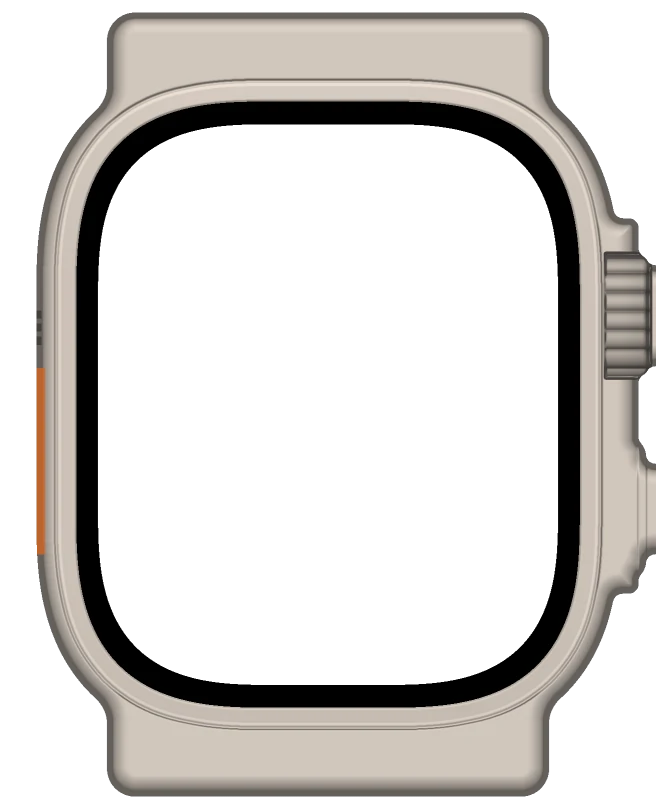
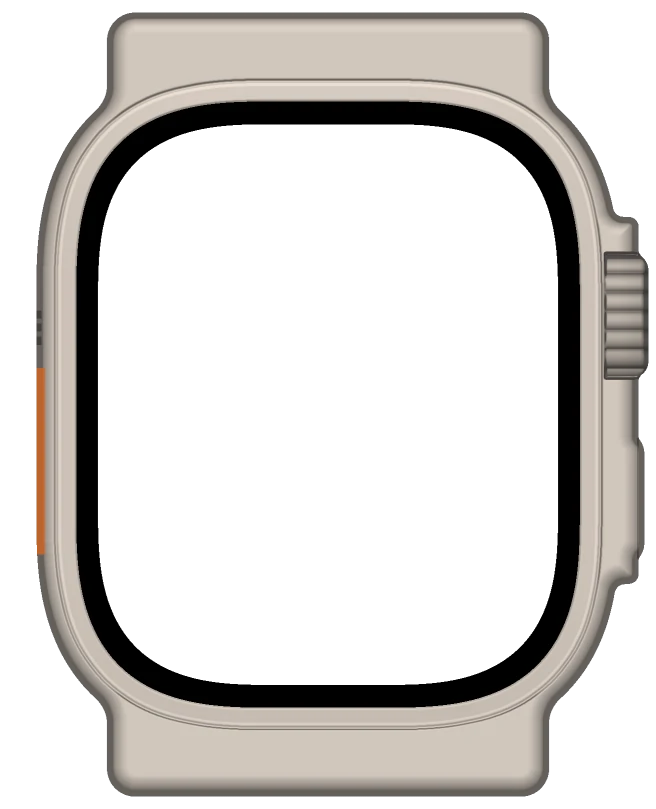
Second Chair: the Watch's crown side re-measured; no black gap beside the crown
The side button now stands 0.41 mm proud of the guard (it had been held out
to the frame's edge), the guard and button extents match Apple's photo, and
the shadow silhouette no longer fills the gap between crown and button.

Changed region(s): [[0.9146, 0.5562, 1.0, 0.7417], [0.9756, 0.309, 1.0, 0.4635], [0.9451, 0.2472, 0.9756, 0.2781]]

diff --git a/second-chair/_docs/devices/watch.py b/second-chair/_docs/devices/watch.py
@@ -7,8 +7,8 @@ Geometry in millimetres.
     sapphire (black) 36.0 x 43.3; corner extent 14.2, n 2.87; rim 2.84 all round
     rim cross-section from the outer edge: roll-off 0-0.27, brushed flank to 1.2, groove 1.35, polished ridge 1.62,
       flat brushed lip 1.75-2.7, dark seam 2.7-2.84
-    crown y 13.7-22.6 (from case top) protruding 2.2; guard y 11.2-38.0 protruding 1.35; side button y 26.7-37.2
-      protruding 1.9; Action button sliver y 21.9-35.2 on the left
+    crown y 13.7-22.6 (from case top) protruding 2.05; guard y 11.1-37.3 protruding 1.35; side button y 26.4-36.0
+      protruding 1.76 (re-measured 16 Nov from the Alpine Loop photo); Action button sliver y 21.9-35.2 on the left
   derived: display corner (circular-equivalent) radius 9.15 from 32.88 x 40.05 mm and 1245 mm2
 Surfaces are height profiles; shading reflects a fitted studio environment off titanium.
 """
@@ -19,7 +19,9 @@ P = dict(
     body_w=41.7, body_h=49.0, body_a=16.4, body_n=2.58,
     glass_w=36.0, glass_h=43.3, glass_a=14.2, glass_n=2.87,
     disp_w=422/326*25.4, disp_h=514/326*25.4,
-    guard=(11.2, 38.0, 1.35), crown=(13.7, 22.6, 2.2), button=(26.7, 37.2, 1.9), action=(21.9, 35.2),
+    # crown side, re-measured from Apple's Alpine Loop photo (29 px/mm on the crown's 8.9 mm): guard 11.1-37.3,
+    # crown 0.69 mm proud of the guard, side button 26.4-36.0 and only 0.41 mm proud of it
+    guard=(11.1, 37.3, 1.35), crown=(13.7, 22.6, 2.05), button=(26.4, 36.0, 1.76), action=(21.9, 35.2),
     # band lugs (horns), measured from Apple's front-on Alpine Loop photo at ~17.2 px/mm (body 41.7 mm = 718 px):
     # 31.6 mm across, rising 3.5 mm above the body's top and below its bottom, corners r 2.0, flowing into the
     # body's shoulders through a ~2.4 mm concave fillet. The band (27 mm) runs between them into a slot 0.75 mm
@@ -72,7 +74,8 @@ def render(scale=7.388, ss=3, margin=6.0, screen=None, e=None, out=None, shadow=
     case = body | guard | crown | button
     # concave fillets where the guard meets the body: close the outline with a 0.5 mm disc
     k = max(3, int(1.4*S)) | 1          # concave fillets where the guard swells out of the case side
-    case = cv2.morphologyEx(case.astype(np.uint8), cv2.MORPH_CLOSE, cv2.getStructuringElement(cv2.MORPH_ELLIPSE, (k, k))).astype(bool)
+    padded = cv2.copyMakeBorder(case.astype(np.uint8), k, k, k, k, cv2.BORDER_CONSTANT, value=0)   # so the frame's edge doesn't hold the crown and button out to it
+    case = cv2.morphologyEx(padded, cv2.MORPH_CLOSE, cv2.getStructuringElement(cv2.MORPH_ELLIPSE, (k, k)))[k:-k, k:-k].astype(bool)
     d_out = cv2.distanceTransform(case.astype(np.uint8), cv2.DIST_L2, 5) * px          # in from the outline
     g = cv2.distanceTransform((~glass).astype(np.uint8), cv2.DIST_L2, 5) * px          # out from the sapphire
     # ---- rim cross-section (heights in mm, relative) ----
@@ -123,6 +126,9 @@ def render(scale=7.388, ss=3, margin=6.0, screen=None, e=None, out=None, shadow=
         return dil & ~m & case
     metal = np.where(ring(cr, 0.30)[...,None], metal*0.38, metal)
     metal = np.where(ring(bt, 0.10)[...,None], metal*0.70, metal)
+    # the seam where the side button meets the guard: seen front-on, a fine dark line down its inner edge
+    seam = button & (X > right + P['guard'][2] - 0.10) & (X < right + P['guard'][2] + 0.04) & (yt > P['button'][0] + 0.5) & (yt < P['button'][1] - 0.5)
+    metal = np.where(seam[...,None], metal*0.5, metal)
     # Action button: anodised orange, visible only as the sliver on the outer left edge
     act = case & (X < -P['body_w']/2 + 0.6) & (yt > P['action'][0]) & (yt < P['action'][1])
     orange = np.array([0.80, 0.20, 0.035])
